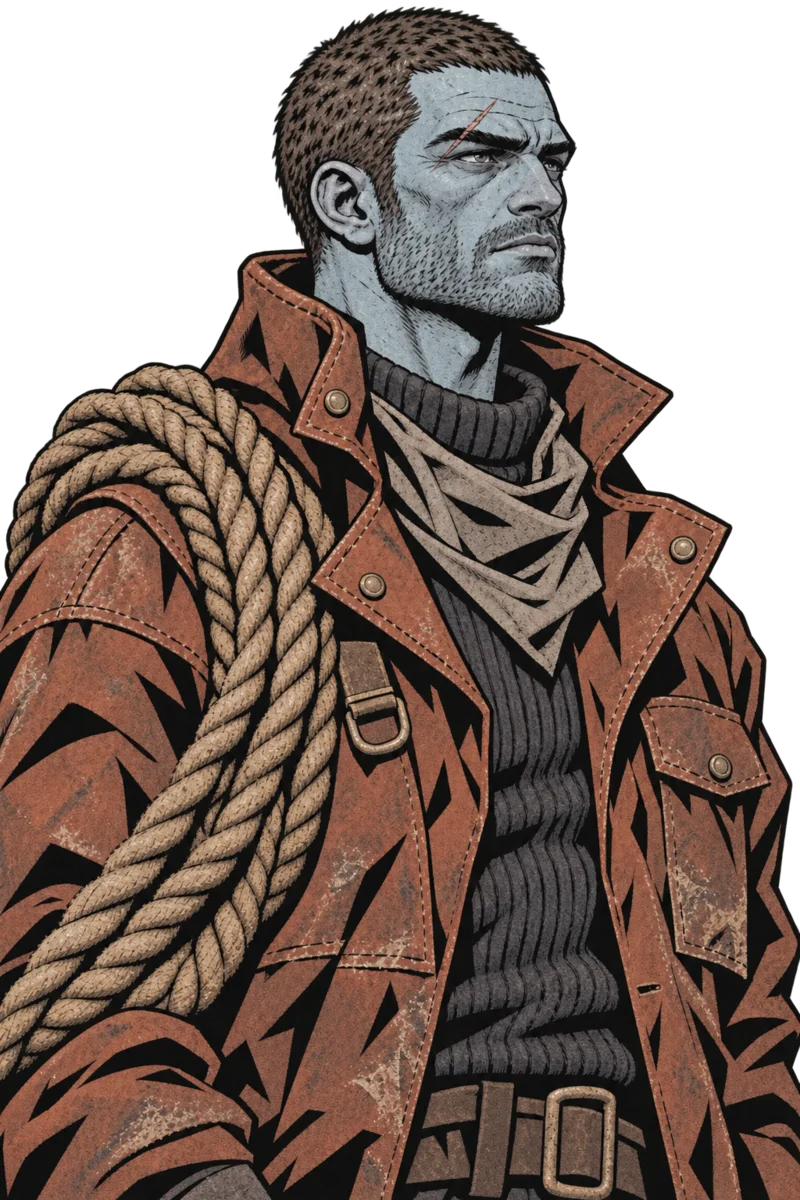
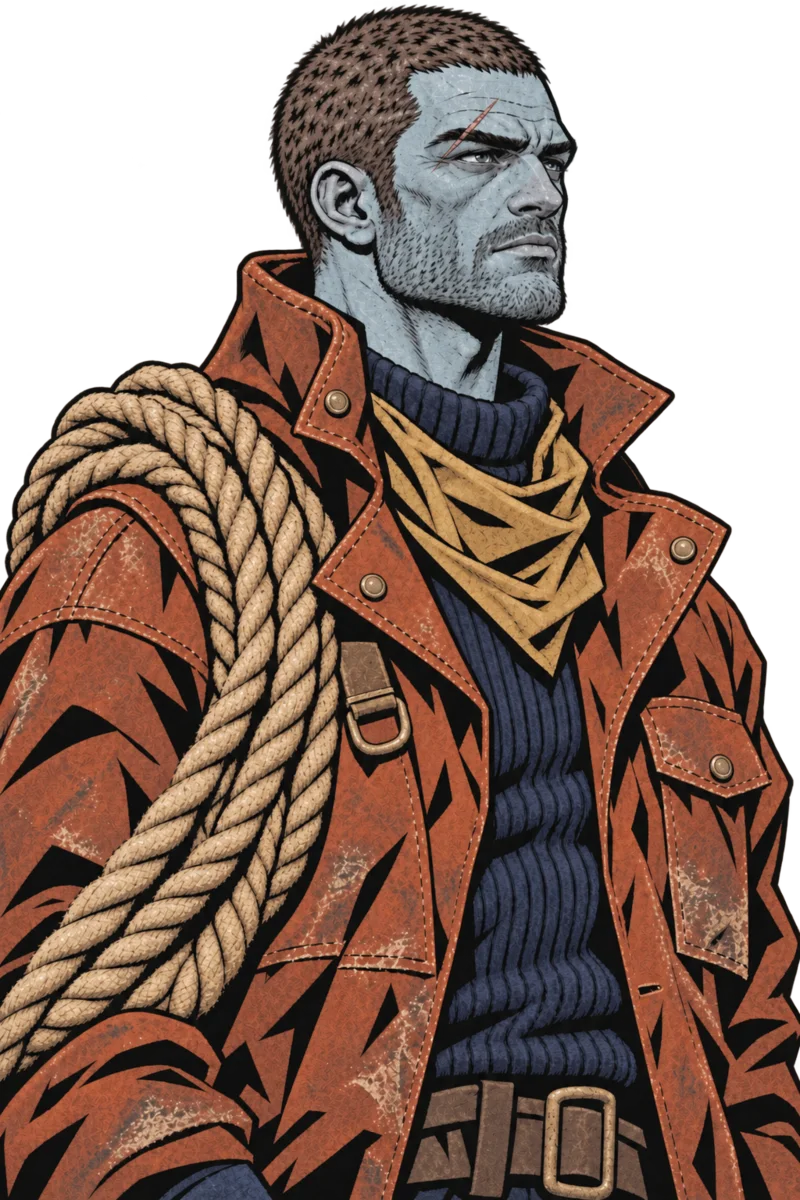
Update base survivor figures to v4 with richer weathered clothing saturation

diff --git a/apps/ui/scripts/gen-figures.ts b/apps/ui/scripts/gen-figures.ts
@@ -29,37 +29,37 @@ const SAFE =
 /** Who each figure is. The survivors are the portraits anyone may wear; the rest belong to an occupation. */
 export const FIGURES: Record<string, string> = {
   "survivor-0":
-    "A weathered pale glacial blue-grey Faded coastal scout in their thirties under a patched muted sea-slate hooded coat with brass dust goggles pushed onto the hood and a muted olive cloth wrap pulled up over nose and mouth. Dark tousled hair, guarded unsmiling eyes, carrying a canvas field satchel.",
+    "A weathered pale glacial blue-grey Faded coastal scout in their thirties under a patched weathered deep sea-teal hooded coat with aged brass dust goggles pushed onto the hood and a warm muted olive-ochre cloth wrap pulled up over nose and mouth. Dark tousled hair, guarded unsmiling eyes, carrying a tan harness and canvas field satchel.",
   "survivor-1":
-    "A broad-shouldered pale glacial blue-grey Faded harbor bosun in his late thirties with a close brown buzz cut and stubble, in a weathered rust-terracotta coat over a dark charcoal knit, a heavy coil of mooring rope slung over his right shoulder. Stoic, unsmiling, square-jawed grit.",
+    "A broad-shouldered pale glacial blue-grey Faded harbor bosun in his late thirties with a close brown buzz cut and stubble, in a weathered burnt rust-terracotta coat over a deep weathered navy-indigo knit and warm ochre neck bandana, a heavy coil of mooring rope slung over his right shoulder. Stoic, unsmiling, square-jawed grit.",
   "survivor-2":
-    "A lanky pale glacial blue-grey Faded young woman with a wild mop of copper curls tied back with wire and slate-blue freckles, in an oversized weathered olive field jacket with rolled sleeves. A crowbar slung over one shoulder, the other hand on her hip, tilted head with a playful toothy grin.",
+    "A lanky pale glacial blue-grey Faded young woman with a wild mop of vibrant copper-red curls tied back with wire and slate-blue freckles, in an oversized rich moss-olive field jacket with rolled sleeves and a deep crimson waist sash. A crowbar slung over one shoulder, the other hand on her hip, tilted head with a playful toothy grin.",
   "survivor-3":
-    "A tall, gaunt pale glacial blue-grey Faded man in his forties with long straight black hair loose to the shoulders and hollow cheeks, wrapped in a heavy muted charcoal wool fringed poncho. Guarded, solemn, unsmiling sidelong gaze.",
+    "A tall, gaunt pale glacial blue-grey Faded man in his forties with long straight black hair loose to the shoulders and hollow cheeks, wrapped in a heavy deep charcoal-indigo herringbone wool fringed poncho with woven muted teal-and-bronze trim and an antique-brass shoulder clasp. Guarded, solemn, unsmiling sidelong gaze.",
   "survivor-4":
-    "A stocky middle-aged pale glacial blue-grey Faded hull mechanic with grey-streaked brown hair tied back in a dusty rust bandana, in weathered dark navy coveralls with rolled sleeves and grease smudges. Resting a heavy pipe wrench across one shoulder with a fierce, unsmiling stare.",
+    "A stocky middle-aged pale glacial blue-grey Faded hull mechanic with grey-streaked brown hair tied back in a deep terracotta-crimson bandana, in weathered cobalt-indigo denim coveralls with rolled sleeves, warm cream neck rag, and grease smudges. Resting a heavy pipe wrench across one shoulder with a fierce, unsmiling stare.",
   "survivor-5":
-    "A weathered pale glacial blue-grey Faded sea navigator in his early thirties with windswept chestnut hair, light stubble, and three pale dots on his temple, in a weathered muted burgundy peacoat over a cream cable-knit sweater. Holding a brass sextant and leather chart tube with a subtle, confident smile.",
+    "A weathered pale glacial blue-grey Faded sea navigator in his early thirties with windswept chestnut hair, light stubble, and three pale dots on his temple, in a rich weathered oxblood-burgundy peacoat over a warm oatmeal-ivory cable-knit sweater. Holding a brass sextant and saddle-tan leather chart tube with a subtle, confident smile.",
   "survivor-6":
-    "A lean pale glacial blue-grey Faded field medic woman in her thirties with dark wavy hair under a weathered slate kerchief, in a dusty moss-olive quilted jacket under a stained canvas apron tucked with bandages and glass vials, leather satchel over her shoulder. Tired, steady, solemn unsmiling eyes.",
+    "A lean pale glacial blue-grey Faded field medic woman in her thirties with dark wavy hair under a weathered slate-denim blue kerchief, in a rich weathered moss-olive quilted jacket under a stained warm-cream canvas apron tucked with bandages and glass vials, warm cognac leather satchel over her shoulder. Tired, steady, solemn unsmiling eyes.",
   "survivor-7":
-    "An elderly pale glacial blue-grey Faded helmswoman with silver-streaked braids threaded with pale sea-glass beads and vertical ochre cheek markings, in a patched earth-brown wool storm coat. Gloved weathered hands resting on an aged brass-capped oak boathook, stern dignified unsmiling gaze.",
+    "An elderly pale glacial blue-grey Faded helmswoman with silver-streaked braids threaded with muted turquoise sea-glass beads and warm ochre-gold vertical cheek markings, in a warm cedar-brown wool storm coat with deep sea-navy patches. Gloved weathered hands resting on an aged brass-capped oak boathook, stern dignified unsmiling gaze.",
   "survivor-8":
-    "An agile pale glacial blue-grey Faded courier woman in her twenties with lush wavy dark auburn hair swept into a windblown ponytail, stitched dull-ochre cloth face mask over nose and mouth, brass goggles at her throat, dark charcoal runner's vest and dusty khaki pack. Fierce, focused, unsmiling eyes.",
+    "An agile pale glacial blue-grey Faded courier woman in her twenties with lush wavy copper-auburn hair swept into a windblown ponytail, stitched warm golden-ochre cloth face mask over nose and mouth, brass goggles at her throat, weathered slate-indigo runner's vest over olive-teal sleeves and warm khaki pack. Fierce, focused, unsmiling eyes.",
   "survivor-9":
-    "A heavy-set elderly pale glacial blue-grey Faded sailor with a huge snow-white walrus moustache and bushy eyebrows, in a dark navy knit cap and a weathered dark pine sea-green oilskin coat. Holding an unlit aged iron storm lantern up at shoulder height with a grim, stoic scowl.",
+    "A heavy-set elderly pale glacial blue-grey Faded sailor with a huge snow-white walrus moustache and bushy eyebrows, in a weathered deep navy-blue knit cap and a rich weathered pine sea-green oilskin coat. Holding an unlit aged iron storm lantern up at shoulder height with a grim, stoic scowl.",
   "survivor-10":
-    "A lean pale glacial blue-grey Faded Black tinkerer in his thirties with short jet-black twists under a patched olive utility cap and a neat goatee, in a weathered burnt-orange utility jacket with a harness relay box. Holding pliers and a coil of copper wire with a wry, sardonic half-smile.",
+    "A lean pale glacial blue-grey Faded Black tinkerer in his thirties with short jet-black twists under a patched olive-khaki utility cap and a neat goatee, in a rich weathered burnt-orange utility jacket with a muted sea-teal harness relay box. Holding pliers and a coil of gleaming copper wire with a wry, sardonic half-smile.",
   "survivor-11":
-    "A lean pale glacial blue-grey Faded young sea courier in his early twenties with tousled dusty sandy-blonde windswept hair, in a weathered muted slate-grey hooded waxed anorak with brass goggles at his throat and a canvas satchel. Alert, watchful, unsmiling gaze.",
+    "A lean pale glacial blue-grey Faded young sea courier in his early twenties with tousled dusty wheat-blonde windswept hair, in a weathered deep sea-teal hooded waxed anorak with deep burgundy neck wrap, brass goggles at his throat, and a warm tan leather satchel. Alert, watchful, unsmiling gaze.",
   "survivor-12":
-    "A stern pale glacial blue-grey Faded quartermaster woman in her late forties with silver-streaked chestnut curls wrapped in a muted dusty-olive headscarf, in a weathered camel coat. Holding a worn leather manifest ledger and a dull brass pencil with a calm, exacting unsmiling expression.",
+    "A stern pale glacial blue-grey Faded quartermaster woman in her late forties with silver-streaked chestnut curls wrapped in a rich weathered moss-olive headscarf, in a warm ochre-camel coat over a deep muted plum-navy shirt. Holding a warm chestnut-leather manifest ledger and an aged brass pencil with a calm, exacting unsmiling expression.",
   "survivor-13":
-    "A sharp-featured pale glacial blue-grey Faded salvage broker in his thirties with slicked-back dark mahogany wavy hair and a thin trimmed moustache, in a weathered umber leather dock coat over a dusty burgundy pinstripe waistcoat with a pocket-watch chain, holding an aged brass flare pistol with a sly crooked smirk.",
+    "A sharp-featured pale glacial blue-grey Faded salvage broker in his thirties with slicked-back rich mahogany-auburn wavy hair and a thin trimmed moustache, in a warm cognac leather dock coat over a rich deep burgundy-crimson pinstripe waistcoat with an antique-gold pocket-watch chain, holding an aged brass flare pistol with a sly crooked smirk.",
   "survivor-14":
-    "A towering bald pale glacial blue-grey Faded rigger with a full dark brown beard and faded slate maritime compass-and-rope forearm tattoos, in a weathered slate-olive patched canvas vest over dark umber rolled sleeves. Heavy iron chain and grappling hook over one shoulder, stoic rock-steady unsmiling gaze.",
+    "A towering bald pale glacial blue-grey Faded rigger with a full dark brown beard and faded slate maritime compass-and-rope forearm tattoos, in a weathered deep sea-teal patched canvas vest over deep brick-burgundy rolled thermal sleeves and warm ochre waist patch. Heavy iron chain and grappling hook over one shoulder, stoic rock-steady unsmiling gaze.",
   "survivor-15":
-    "A slender androgynous pale glacial blue-grey Faded mystic in their twenties with bleached ash-white hair swept over one side and shaved on the other, pale slate eyes and many small antique-gold earrings, in a muted dusty deep-plum robe with dull gold trim. Hands clasped around wooden beads, serene unsmiling stillness.",
+    "A slender androgynous pale glacial blue-grey Faded mystic in their twenties with bleached ash-white hair swept over one side and shaved on the other, pale slate eyes and many small antique-gold earrings, in a rich deep royal-purple robe with crisp antique-gold swirl trim. Hands clasped around warm wooden beads, serene unsmiling stillness.",
   immunologist:
     "A 37-year-old Argentine male mainlander field immunologist from Buenos Aires (natural warm olive-tan skin, not Faded) with dark wavy hair in two loose shoulder braids and light stubble, wearing a weathered stained white lab coat over an olive field shirt and grey gloves, holding a metal specimen canister and glass vial. Focused, intense, driven.",
   "vector-control":

diff --git a/apps/ui/src/lib/characters/figures.generated.ts b/apps/ui/src/lib/characters/figures.generated.ts
@@ -8,9 +8,9 @@ export const HEADS: Record<string, { x: number; y: number; size: number; aspect:
 		"aspect": 0.667
 	},
 	"survivor-1": {
-		"x": 0.628,
-		"y": 0.142,
-		"size": 0.544,
+		"x": 0.622,
+		"y": 0.143,
+		"size": 0.538,
 		"aspect": 0.667
 	},
 	"survivor-2": {
@@ -20,27 +20,27 @@ export const HEADS: Record<string, { x: number; y: number; size: number; aspect:
 		"aspect": 0.667
 	},
 	"survivor-3": {
-		"x": 0.657,
-		"y": 0.178,
-		"size": 0.579,
+		"x": 0.68,
+		"y": 0.185,
+		"size": 0.575,
 		"aspect": 0.667
 	},
 	"survivor-4": {
-		"x": 0.633,
-		"y": 0.173,
-		"size": 0.482,
+		"x": 0.638,
+		"y": 0.176,
+		"size": 0.461,
 		"aspect": 0.667
 	},
 	"survivor-5": {
-		"x": 0.617,
-		"y": 0.159,
-		"size": 0.504,
+		"x": 0.599,
+		"y": 0.154,
+		"size": 0.498,
 		"aspect": 0.667
 	},
 	"survivor-6": {
-		"x": 0.7,
-		"y": 0.171,
-		"size": 0.545,
+		"x": 0.707,
+		"y": 0.17,
+		"size": 0.567,
 		"aspect": 0.667
 	},
 	"survivor-7": {
@@ -59,42 +59,42 @@ export const HEADS: Record<string, { x: number; y: number; size: number; aspect:
 		"x": 0.64,
 		"y": 0.165,
 		"size": 0.48,
-		"aspect": 0.681
+		"aspect": 0.667
 	},
 	"survivor-10": {
-		"x": 0.646,
-		"y": 0.163,
-		"size": 0.482,
+		"x": 0.641,
+		"y": 0.161,
+		"size": 0.499,
 		"aspect": 0.667
 	},
 	"survivor-11": {
-		"x": 0.732,
-		"y": 0.141,
-		"size": 0.463,
+		"x": 0.717,
+		"y": 0.157,
+		"size": 0.432,
 		"aspect": 0.667
 	},
 	"survivor-12": {
 		"x": 0.625,
-		"y": 0.163,
-		"size": 0.462,
+		"y": 0.164,
+		"size": 0.463,
 		"aspect": 0.667
 	},
 	"survivor-13": {
-		"x": 0.716,
+		"x": 0.704,
 		"y": 0.157,
-		"size": 0.556,
+		"size": 0.537,
 		"aspect": 0.667
 	},
 	"survivor-14": {
-		"x": 0.596,
-		"y": 0.098,
-		"size": 0.461,
+		"x": 0.525,
+		"y": 0.162,
+		"size": 0.5,
 		"aspect": 0.667
 	},
 	"survivor-15": {
-		"x": 0.547,
-		"y": 0.223,
-		"size": 0.585,
+		"x": 0.55,
+		"y": 0.219,
+		"size": 0.579,
 		"aspect": 0.667
 	},
 	"immunologist": {
